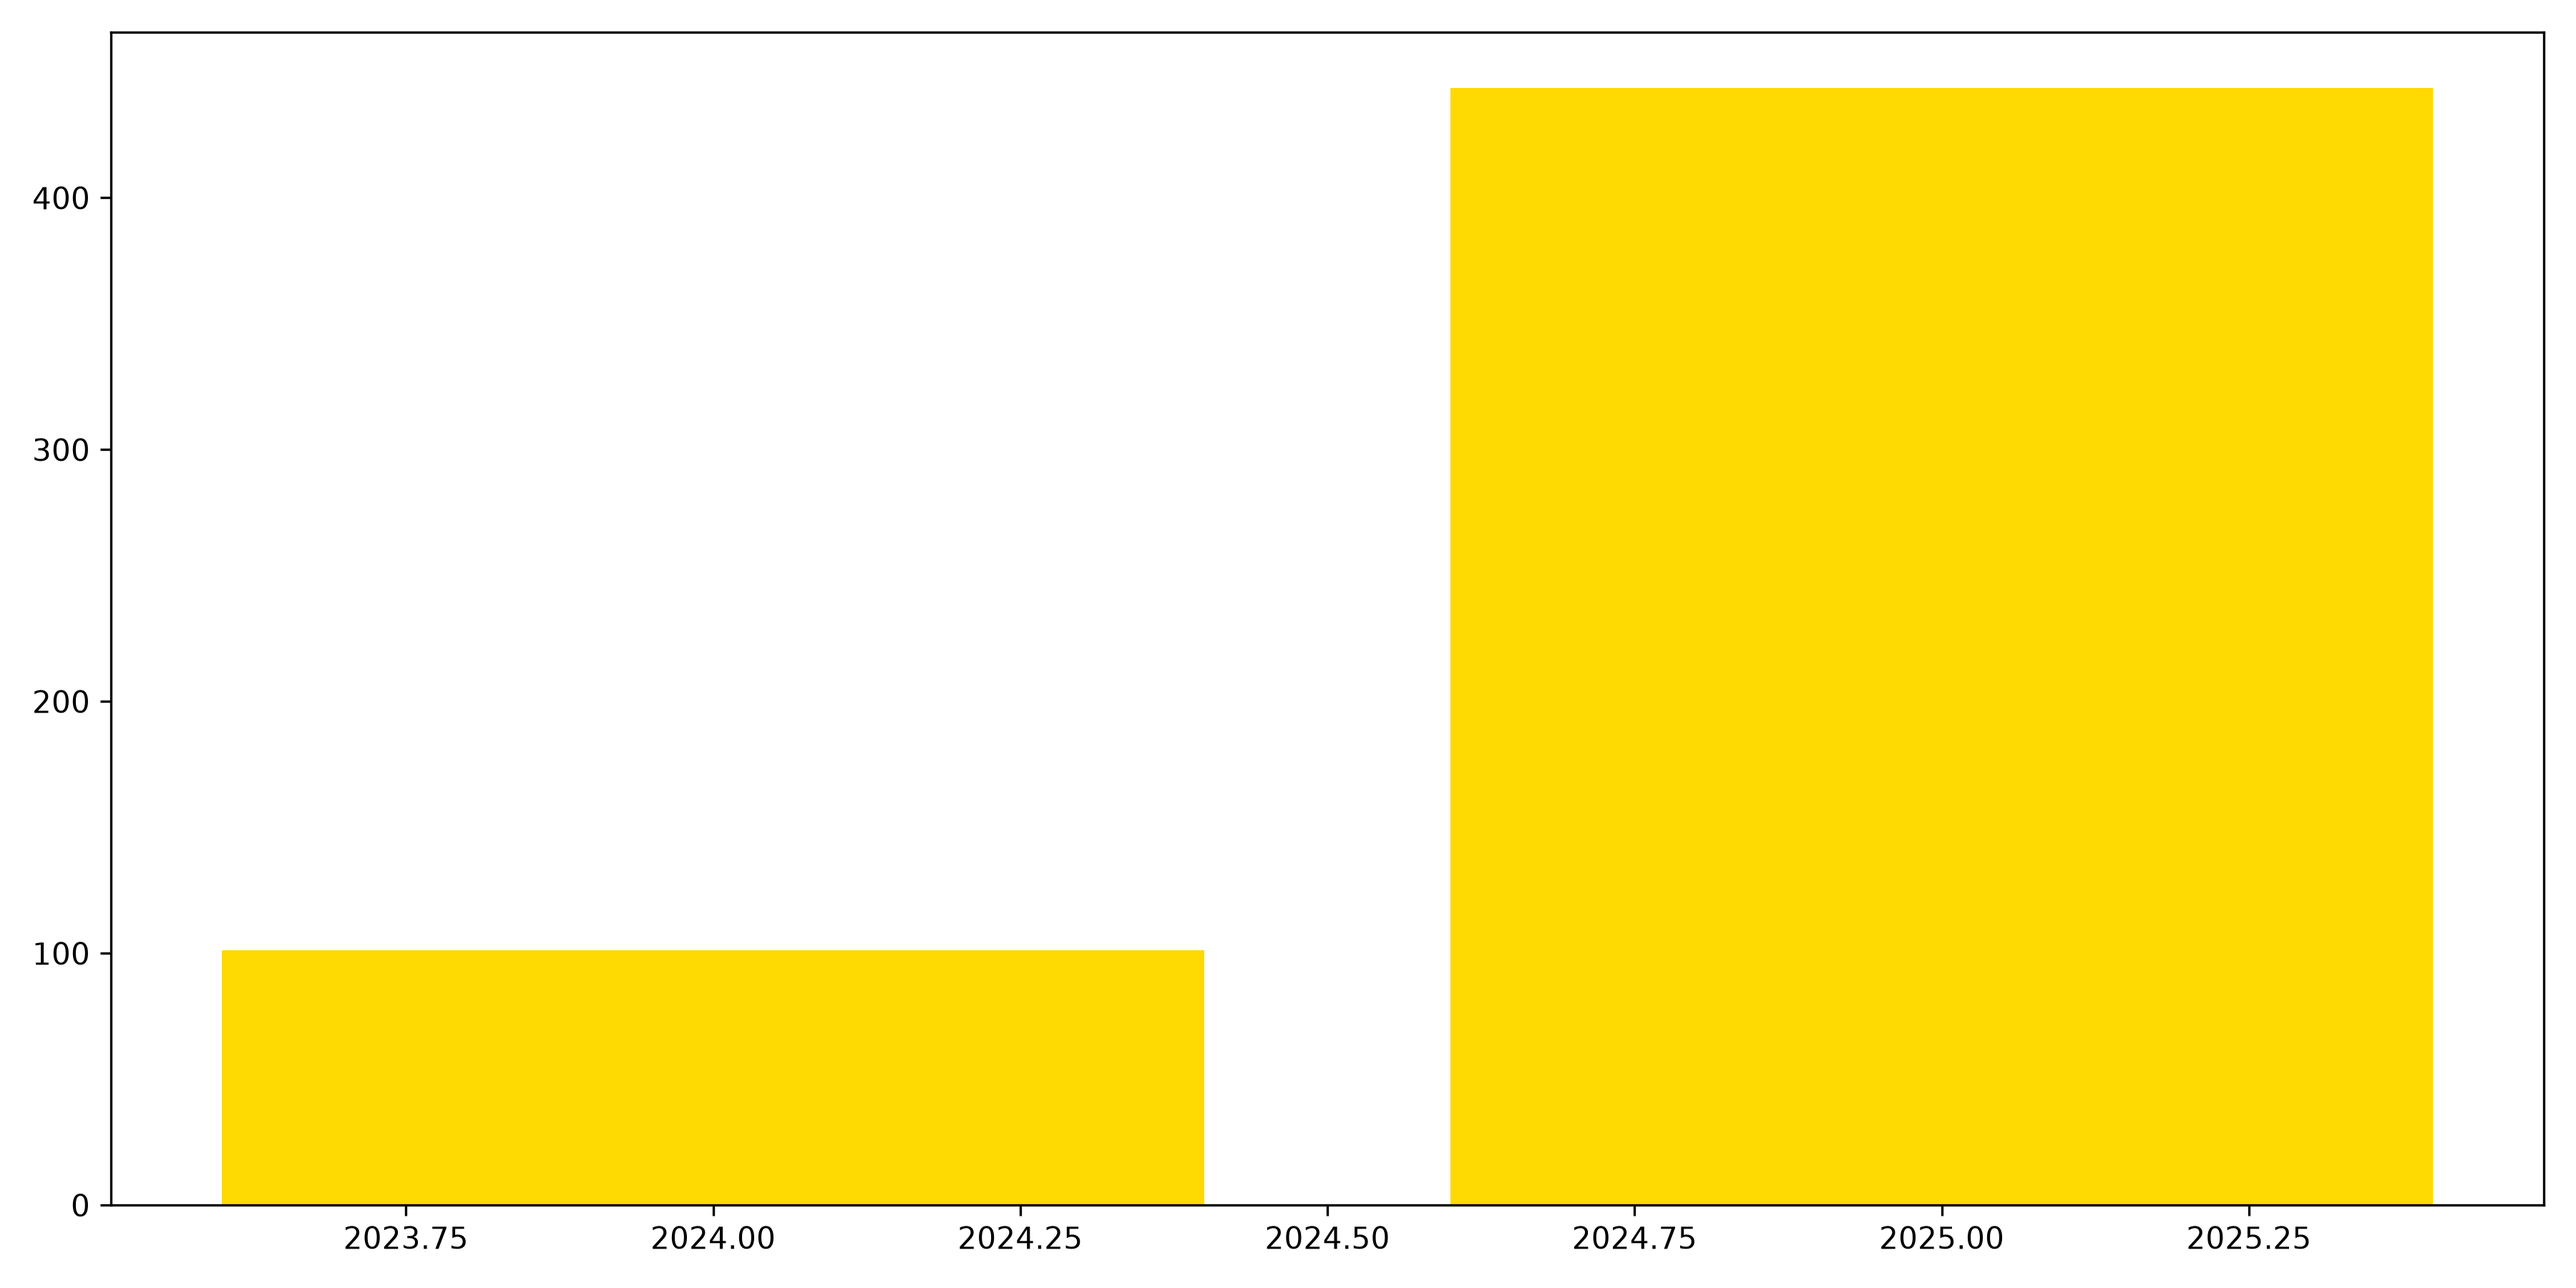
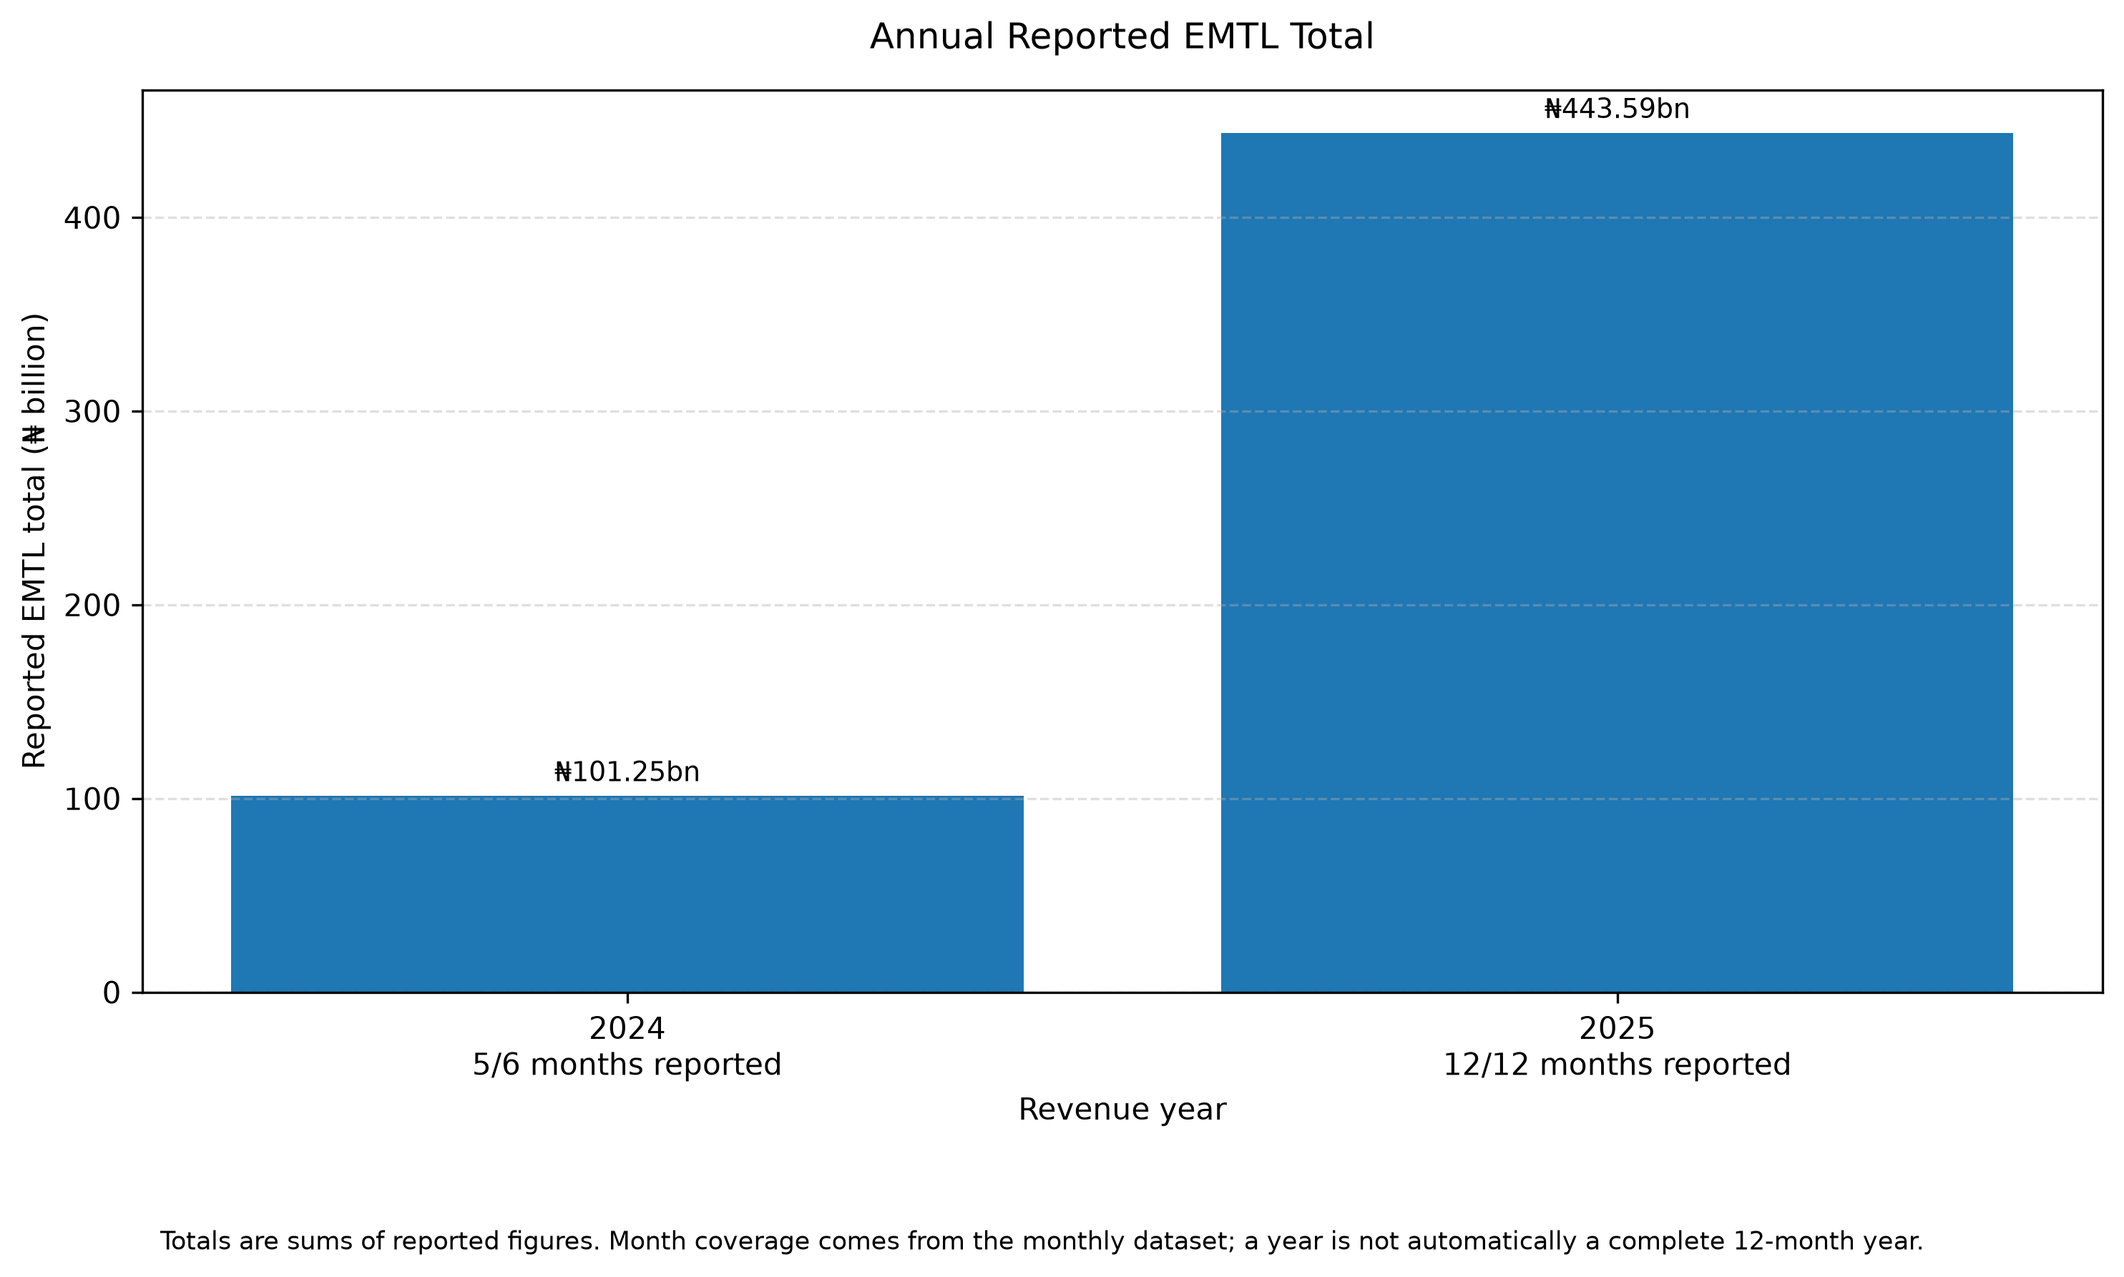
added scripts to perfect the chart

diff --git a/src/analysis/plot_annual_emtl.py b/src/analysis/plot_annual_emtl.py
@@ -1,20 +1,125 @@
+from pathlib import Path
 import pandas as pd
 import matplotlib.pyplot as plt
-import os
-os.getcwd()
 
-df = pd.read_csv(r"C:\Users\HP\Documents\GitHub\Nigeria Transfer Levy Analysis\data\processed\annual_emtl_revenue_generated_total.csv")
+PROJECT_ROOT = Path(__file__).resolve().parents[2]
+DATA_DIR = PROJECT_ROOT / "data" / "processed"
+OUTPUT_DIR = PROJECT_ROOT / "reports" / "figures"
 
-df["revenue_year"] = df["revenue_year"].astype(int)
-df["total_reported_emtl_ngn"] = df["total_reported_emtl_ngn"]/1e9
+annual_file = DATA_DIR / "annual_emtl_revenue_generated_total.csv"
+monthly_file = DATA_DIR / "monthly_emtl_trend.csv"
+if not monthly_file.exists():
+    monthly_file = DATA_DIR / "montly_emtl_trend.csv"
 
-plt.figure(figsize=(12, 6))
-plt.bar(df['revenue_year'], df['total_reported_emtl_ngn'], color="#ffd901")
+if not annual_file.exists():
+    raise FileNotFoundError(f"Could not find {annual_file}")
+if not monthly_file.exists():
+    raise FileNotFoundError("Monthly trend CSV is needed to show month coverage.")
 
-plt.tight_layout()
+annual = pd.read_csv(annual_file)
+monthly = pd.read_csv(monthly_file)
 
-output_dir = r"C:\Users\HP\Documents\GitHub\Nigeria Transfer Levy Analysis\reports\figures"
-os.makedirs(output_dir, exist_ok=True)
+required_annual = ["revenue_year", "total_reported_emtl_ngn"]
+required_monthly = ["revenue_month", "reported_emtl_total_ngn"]
 
-plt.savefig(os.path.join(output_dir, "annual_emtl_totals.png"), bbox_inches='tight', dpi=300)
+for col in required_annual:
+    if col not in annual.columns:
+        raise ValueError(f"Annual CSV is missing column: {col}")
+for col in required_monthly:
+    if col not in monthly.columns:
+        raise ValueError(f"Monthly CSV is missing column: {col}")
+
+annual["revenue_year"] = pd.to_numeric(annual["revenue_year"], errors="coerce")
+annual["total_reported_emtl_ngn"] = pd.to_numeric(
+    annual["total_reported_emtl_ngn"], errors="coerce"
+)
+monthly["revenue_month"] = pd.to_datetime(
+    monthly["revenue_month"], errors="coerce"
+)
+monthly["reported_emtl_total_ngn"] = pd.to_numeric(
+    monthly["reported_emtl_total_ngn"], errors="coerce"
+)
+
+if annual["revenue_year"].isna().any() or monthly["revenue_month"].isna().any():
+    raise ValueError("A year or month value could not be read.")
+
+annual["revenue_year"] = annual["revenue_year"].astype(int)
+# Standardise each date to the first day of its month.
+monthly["revenue_month"] = (
+    monthly["revenue_month"].dt.to_period("M").dt.to_timestamp()
+)
+
+if monthly["revenue_month"].duplicated().any():
+    raise ValueError("Duplicate revenue months found in the monthly CSV.")
+
+# Build the full month range. This counts months even when a whole row
+# is missing from the CSV.
+monthly = monthly.set_index("revenue_month").sort_index()
+all_months = pd.date_range(monthly.index.min(), monthly.index.max(), freq="MS")
+monthly = monthly.reindex(all_months)
+monthly.index.name = "revenue_month"
+monthly["revenue_year"] = monthly.index.year
+
+# Count all months in the covered date range and months with reported amounts.
+coverage = (
+    monthly.groupby("revenue_year")
+    .agg(
+        months_in_data=("reported_emtl_total_ngn", "size"),
+        months_reported=("reported_emtl_total_ngn", lambda x: x.notna().sum())
+    )
+    .reset_index()
+)
+
+chart_data = annual.merge(coverage, on="revenue_year", how="left")
+chart_data = chart_data.sort_values("revenue_year")
+chart_data["total_emtl_bn"] = (
+    chart_data["total_reported_emtl_ngn"] / 1_000_000_000
+)
+
+fig, ax = plt.subplots(figsize=(10, 6))
+bars = ax.bar(
+    chart_data["revenue_year"].astype(str),
+    chart_data["total_emtl_bn"]
+)
+
+ax.set_title("Annual Reported EMTL Total", pad=14)
+ax.set_xlabel("Revenue year")
+ax.set_ylabel("Reported EMTL total (₦ billion)")
+ax.grid(axis="y", linestyle="--", alpha=0.4)
+
+# Show the amount above each bar.
+for bar, amount in zip(bars, chart_data["total_emtl_bn"]):
+    ax.annotate(
+        f"₦{amount:,.2f}bn",
+        (bar.get_x() + bar.get_width() / 2, bar.get_height()),
+        xytext=(0, 5), textcoords="offset points",
+        ha="center", fontsize=9
+    )
+
+# Show reported months / months covered under each year.
+labels = []
+for _, row in chart_data.iterrows():
+    covered = int(row["months_in_data"]) if pd.notna(row["months_in_data"]) else 0
+    reported = int(row["months_reported"]) if pd.notna(row["months_reported"]) else 0
+    labels.append(f"{int(row['revenue_year'])}\n{reported}/{covered} months reported")
+
+ax.set_xticks(range(len(labels)))
+ax.set_xticklabels(labels)
+
+fig.text(
+    0.08, 0.02,
+    "Totals are sums of reported figures. Month coverage comes from the "
+    "monthly dataset; a year is not automatically a complete 12-month year.",
+    ha="left", fontsize=8.5
+)
+fig.tight_layout(rect=[0, 0.09, 1, 1])
+
+OUTPUT_DIR.mkdir(parents=True, exist_ok=True)
+output_file = OUTPUT_DIR / "annual_emtl_totals.png"
+fig.savefig(output_file, dpi=300, bbox_inches="tight")
+
+print(f"Chart saved to: {output_file}")
+print(chart_data[
+    ["revenue_year", "total_reported_emtl_ngn", "months_reported", "months_in_data"]
+].to_string(index=False))
 plt.show()
